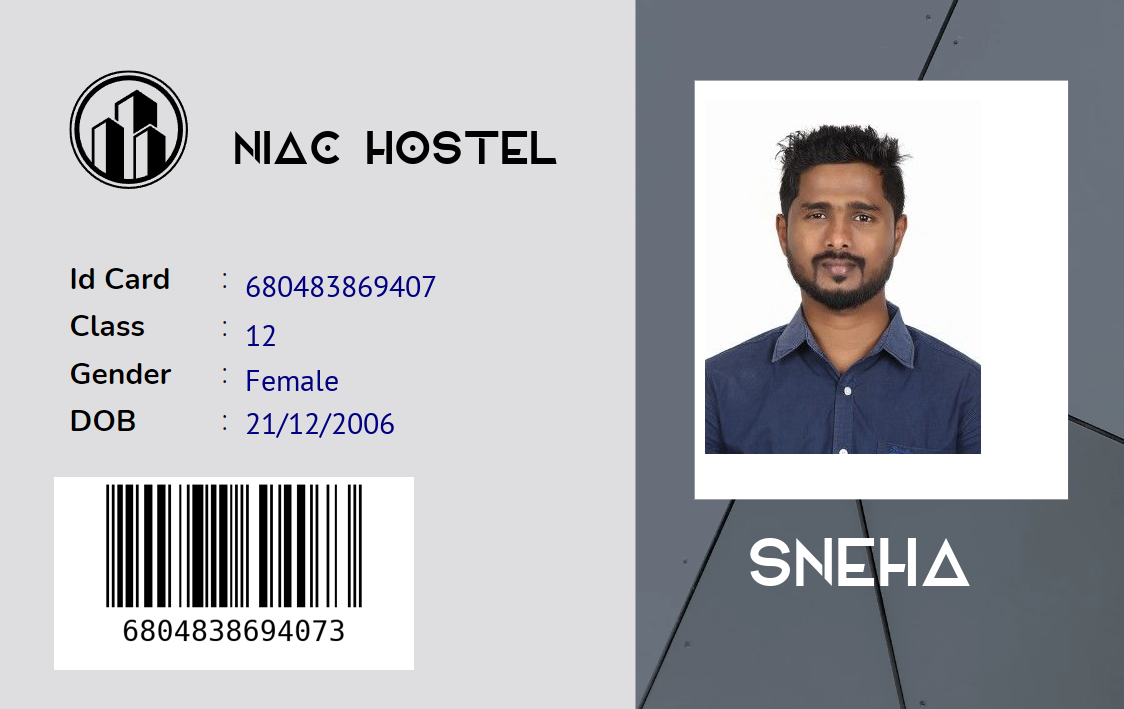
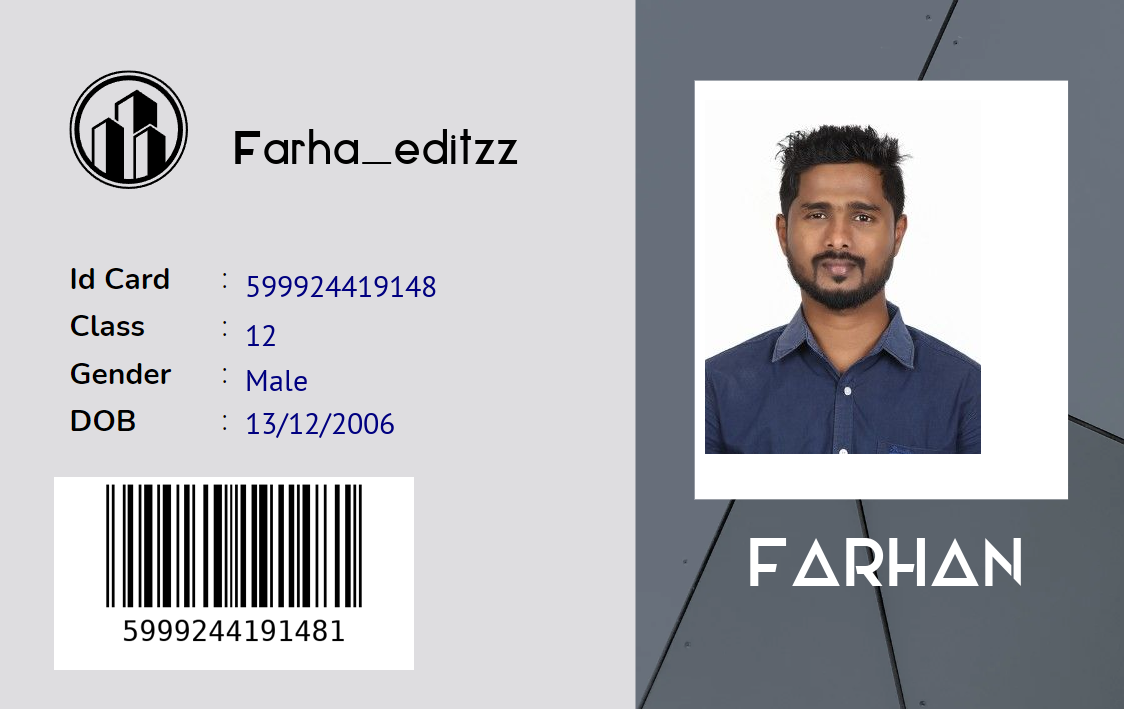
sql

diff --git a/sample/sample11/main2.py b/sample/sample11/main2.py
@@ -1,0 +1,24 @@
+import mysql.connector as mysqlcon
+con = mysqlcon.connect(user = "root", password = "6389", host = "localhost")
+cur = con.cursor()
+q1 = "show databases"
+cur.execute(q1)
+data = cur.fetchall()
+
+q2 = "create database IDcards_data"
+d = ("idcards_data",)
+if d in data:
+    pass
+else:
+    cur.execute(q2)
+print(data)
+
+q3 = "show tables"
+q4 = "create table stud_data (roll_no int(5) primary key, name varchar(40), class gender varchar(6), dob date)"
+data2 = cur.fetchall()
+t = ("stud_data",)
+if t in data2:
+    pass
+else:
+    cur.execute(q4)
+    

diff --git a/sample/sample11/main.py b/sample/sample11/main.py
@@ -51,7 +51,7 @@ draw.text(xy=(747,537),
           font=fnt_name)
 
 # UID
-num = str(random.randint(100000000000,999999999999))
+num = str(random.randint(10000,99999999))
 draw.text(xy=(245,266),
           text = str(num),
           font = fnt_rest,
